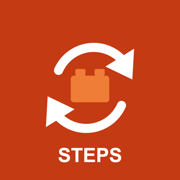
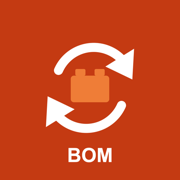
Rename to BOM Designer; picker: one-tap minus and selected-tile fix
- Visible name is now BOM Designer (title, home screen, install name, icon,
  README). Storage keys, file format, repo and URL are unchanged so saved
  builds keep working.
- Part picker: a minus button on every selected part lowers the count (the
  last one removes it), for steps, BOM and parts lists.
- Fix: selected picker tiles had their picture squashed by a CSS class name
  clash (.chosen); the picker now updates only the tapped tile instead of
  redrawing the whole grid.

Changed region(s): [[0.3056, 0.8056, 0.6944, 0.9167]]

diff --git a/src/main.js b/src/main.js
@@ -182,7 +182,7 @@ async function renderHome() {
   const builds = await listBuilds();
   const names = Object.fromEntries((await loadKits()).map(k => [k.id, k.name]));
   app.innerHTML = `
-    <header class="bar"><div class="brand"><span class="mark"></span><div><h1>Build Steps</h1><p>Build instruction decks</p></div></div></header>
+    <header class="bar"><div class="brand"><span class="mark"></span><div><h1>BOM Designer</h1><p>Build guides and parts lists</p></div></div></header>
     <section class="page">
       ${builds.length ? `<ul class="build-list">${builds.map(b => `
         <li class="build-row"><a href="#/build/${esc(b.id)}${isPartsList(b) ? "/bom" : ""}" class="build-card">
@@ -570,6 +570,13 @@ async function renderBom(buildId, { picker = false } = {}) {
         else if (r.extra) setExtra(build, id, Math.min(999, r.qty + 1));
         else setOverride(build, id, { qty: Math.min(999, r.qty + 1) });
       },
+      remove: id => {
+        const r = current(id);
+        if (!r || r.hidden) return;
+        if (r.extra) setExtra(build, id, r.qty - 1);                       // 0 removes it
+        else if (r.qty > 1) setOverride(build, id, { qty: r.qty - 1 === r.auto ? null : r.qty - 1 });
+        else setOverride(build, id, { hidden: true });                     // a part from the steps is hidden, not deleted
+      },
     });
   }
 }
@@ -865,6 +872,12 @@ async function renderStep(buildId, stepId, { picker = false } = {}) {
       if (chosen) chosen.qty = Math.min(99, chosen.qty + 1);
       else step.parts.push({ id, qty: 1 });
     },
+    remove: id => {
+      const chosen = step.parts.find(p => p.id === id);
+      if (!chosen) return;
+      if (chosen.qty > 1) chosen.qty -= 1;
+      else step.parts = step.parts.filter(p => p.id !== id);
+    },
   });
 }
 
@@ -903,8 +916,8 @@ function searchWords(text) {
   return text.toLowerCase().replace(/(\d)\s*[x×]\s*(?=\d)/g, "$1 x ").replace(/[^a-z0-9.]+/g, " ").split(" ").filter(Boolean);
 }
 
-/** count(id) → how many are chosen now (0 = none); add(id) records one more tap. */
-function partPicker({ build, library, back, title, subtitle, count, add }) {
+/** count(id) → how many are chosen now (0 = none); add(id) records one more tap; remove(id) takes one away. */
+function partPicker({ build, library, back, title, subtitle, count, add, remove }) {
   const used = new Set(build.steps.flatMap(s => s.parts.map(p => p.id)));
   const all = [...library.values()];
   const overlay = document.createElement("div");
@@ -922,13 +935,23 @@ function partPicker({ build, library, back, title, subtitle, count, add }) {
   const body = overlay.querySelector(".picker-body");
   const search = overlay.querySelector("input");
 
-  const tile = part => {
+  // The count badge and the − button; kept apart from the picture so a tap can update them in place.
+  const marks = part => {
     const chosen = count(part.id);
-    return `<button class="part ${chosen ? "chosen" : ""}" data-id="${esc(part.id)}">
+    return chosen ? `<b class="badge">${chosen}</b><span class="part-minus" role="button" tabindex="0" data-minus-id="${esc(part.id)}" aria-label="${chosen > 1 ? "One fewer" : "Remove"} ${esc(part.name)}"><i>${chosen > 1 ? "−" : "✕"}</i></span>` : "";
+  };
+  const tile = part => `<button class="part ${count(part.id) ? "picked" : ""}" data-id="${esc(part.id)}">
       <img src="${esc(part.file)}" alt="" loading="lazy">
-      <span>${esc(part.name)}</span>
-      ${chosen ? `<b class="badge">${chosen}</b>` : ""}
+      <span>${esc(part.name)}</span>${marks(part)}
     </button>`;
+  // After a tap, refresh only that part's tile(s): redrawing the grid would reload every picture.
+  const refreshTile = id => {
+    const part = library.get(id);
+    body.querySelectorAll(`[data-id="${CSS.escape(id)}"]`).forEach(el => {
+      el.classList.toggle("picked", !!count(id));
+      el.querySelectorAll(".badge, .part-minus").forEach(x => x.remove());
+      el.insertAdjacentHTML("beforeend", marks(part));
+    });
   };
   const draw = () => {
     const words = searchWords(search.value);
@@ -940,11 +963,22 @@ function partPicker({ build, library, back, title, subtitle, count, add }) {
       ${found.length ? `<div class="grid">${found.map(tile).join("")}</div>` : `<p class="empty">No part matches "${esc(search.value)}".</p>`}`;
   };
   body.addEventListener("click", async e => {
+    const minus = e.target.closest("[data-minus-id]");
+    if (minus) {
+      // One fewer; at 1 the part is removed. Does not also count as a tap on the tile.
+      e.stopPropagation();
+      const id = minus.dataset.minusId;
+      remove(id);
+      refreshTile(id);
+      await saveBuild(build);
+      return;
+    }
     const button = e.target.closest("[data-id]");
     if (!button) return;
-    add(button.dataset.id);
+    const id = button.dataset.id;
+    add(id);
+    refreshTile(id);
     await saveBuild(build);
-    draw();
   });
   search.addEventListener("input", draw);
   draw();

diff --git a/src/style.css b/src/style.css
@@ -177,7 +177,7 @@ textarea:focus, input:focus, select:focus { outline: none; border-color: var(--o
 }
 .part img { width: 100%; aspect-ratio: 1; object-fit: contain; }
 .part span { font-size: 12.5px; line-height: 1.25; }
-.part.chosen { border-color: var(--rust); background: #FFF6F1; }
+.part.picked { border-color: var(--rust); background: #FFF6F1; }
 .part .badge { position: absolute; top: 6px; right: 6px; min-width: 24px; height: 24px; padding: 0 6px; border-radius: 999px; background: var(--rust); color: #fff; font-size: 13px; display: grid; place-items: center; }
 
 /* Dialogs */
@@ -430,3 +430,8 @@ body.dropping::after {
 /* Parts list */
 .tag { font-style: normal; font-size: 11px; font-weight: 700; letter-spacing: .04em; text-transform: uppercase; color: var(--rust); background: #FFF0E8; border-radius: 6px; padding: 2px 7px; margin-right: 8px; vertical-align: 2px; }
 #add-all { justify-self: start; }
+
+/* Picker: take one away (44 px touch area, 28 px circle) */
+.part-minus { position: absolute; top: 0; left: 0; width: 44px; height: 44px; display: grid; place-items: center; cursor: pointer; }
+.part-minus i { display: grid; place-items: center; width: 28px; height: 28px; border-radius: 50%; background: #fff; border: 1.5px solid var(--rust); color: var(--rust); font-style: normal; font-size: 18px; font-weight: 700; line-height: 1; }
+.part-minus:active i, .part-minus:hover i { background: #FDECEA; }

diff --git a/index.html b/index.html
@@ -4,15 +4,15 @@
   <meta charset="utf-8">
   <meta name="viewport" content="width=device-width, initial-scale=1, viewport-fit=cover">
   <meta name="theme-color" content="#C43A12">
-  <meta name="description" content="Make ThinkPro build instruction decks from your phone.">
+  <meta name="description" content="Design build instruction decks and parts lists (BOM) from your phone.">
   <meta name="apple-mobile-web-app-capable" content="yes">
   <meta name="mobile-web-app-capable" content="yes">
-  <meta name="apple-mobile-web-app-title" content="Build Steps">
+  <meta name="apple-mobile-web-app-title" content="BOM Designer">
   <meta name="apple-mobile-web-app-status-bar-style" content="black-translucent">
   <link rel="manifest" href="./manifest.webmanifest">
   <link rel="icon" href="./icon-192.png">
   <link rel="apple-touch-icon" href="./apple-touch-icon.png">
-  <title>Build Steps</title>
+  <title>BOM Designer</title>
   <link rel="stylesheet" href="./src/style.css">
 </head>
 <body>

diff --git a/public/sw.js b/public/sw.js
@@ -1,6 +1,6 @@
 // Keeps the app usable without a connection once it has been opened.
 // Pages load from the network first (so updates arrive), everything else from the cache first.
-const CACHE = "build-steps-v2";
+const CACHE = "build-steps-v3";
 const CORE = ["./", "./index.html", "./manifest.webmanifest", "./library/kits.json", "./library/xplorer/parts.json",
   "./slides/bg1.jpg", "./slides/bg2.jpg", "./slides/bg3.jpg", "./slides/flip.svg", "./slides/turn.svg", "./icon-192.png"];
 

diff --git a/src/ai.js b/src/ai.js
@@ -1,4 +1,4 @@
-// "✨ Improve with AI": asks the Build Steps AI proxy (server/rephrase_proxy.py, on the
+// "✨ Improve with AI": asks the BOM Designer AI proxy (server/rephrase_proxy.py, on the
 // Lesson Foundry EC2 server) for three rewrites of a step's instruction that name both the part
 // being added and the part it goes onto (from the "Goes onto" choice, the earlier steps and the
 // step photo). The proxy holds the

diff --git a/server/rephrase_proxy.py b/server/rephrase_proxy.py
@@ -1,5 +1,5 @@
 #!/usr/bin/env python3
-"""Build Steps: instruction rephrasing proxy (Google Gemini).
+"""BOM Designer: instruction rephrasing proxy (Google Gemini).
 
 The phone app sends one step's instruction, its parts, the parts added in the previous steps and
 (when there is one) the step photo here; this service asks Gemini for three instructions that say

diff --git a/README.md b/README.md
@@ -1,6 +1,6 @@
-# Build Steps
+# BOM Designer
 
-A phone-first web app for making ThinkPro **build instruction decks** (PowerPoint).
+A phone-first web app for making ThinkPro **build instruction decks** (PowerPoint) and standalone **parts lists (BOM)**.
 
 1. **New build**: enter the build name, grade and session.
 2. **📷 Add step**: take the photo of the step (or use **🖼 Add steps from gallery** to pick one or more saved photos; each becomes a step, in the order selected), choose the part(s) it uses from the parts list, and type the instruction exactly as it should read on the slide. Steps that only **flip over** or **turn around** the assembly need no part; their slide shows the previous step's photo (before) on the left and this step's photo (after) on the right.

diff --git a/server/README.md b/server/README.md
@@ -1,4 +1,4 @@
-# Build Steps AI (instruction rephrasing)
+# BOM Designer AI (instruction rephrasing)
 
 `rephrase_proxy.py` gives the app's **✨ Improve with AI** button three rewrites of a step's
 instruction (Corrected, Clearer, Shorter), naming the part added and the part it goes onto, using Google Gemini (`gemini-3.5-flash-lite`, free
